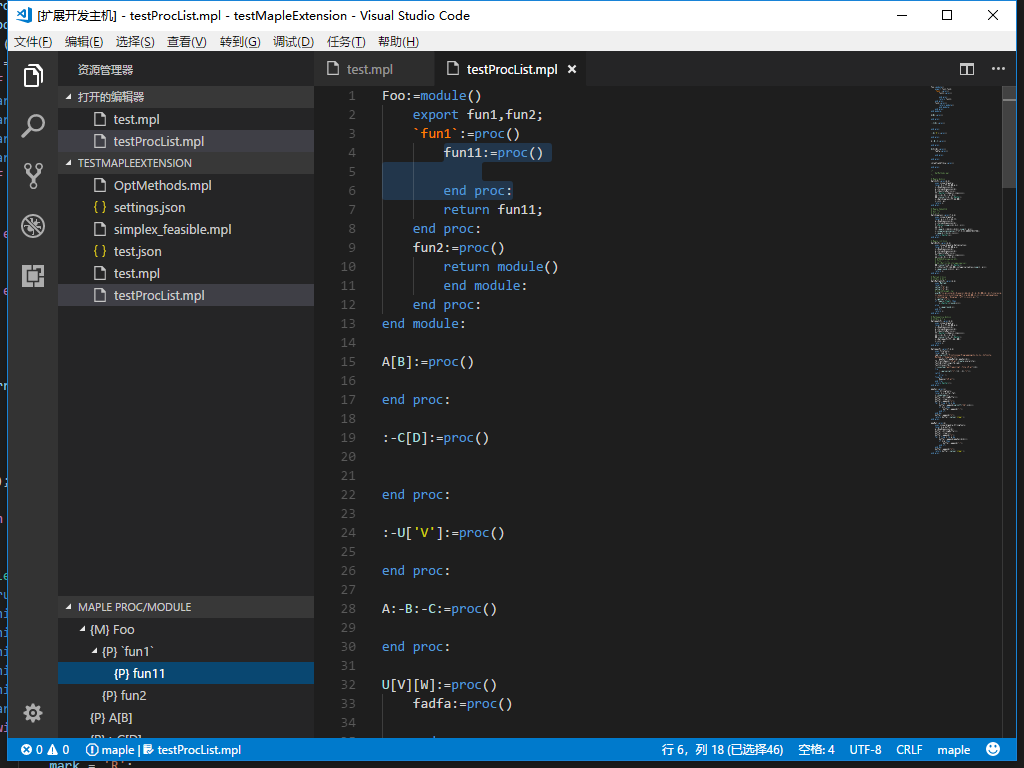
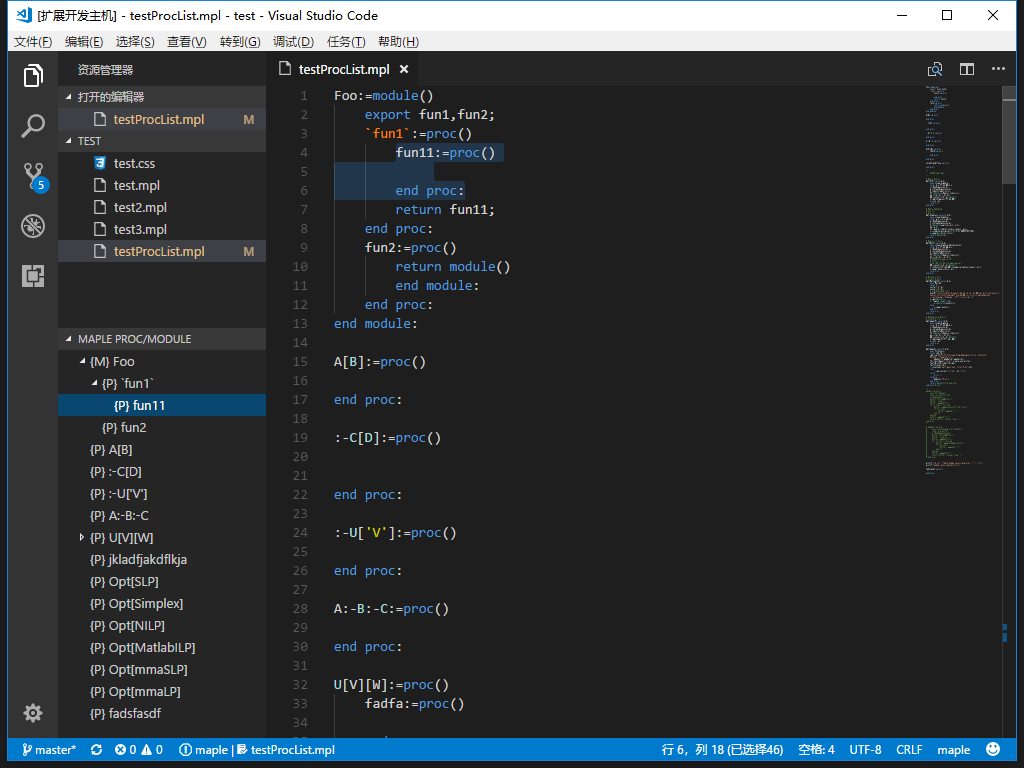
v1.2.4

diff --git a/runner/MapleParser.js b/runner/MapleParser.js
@@ -1,7 +1,7 @@
 'use strict';
 
 function findTokens(str) {
-    var b, r = /(\(\*(.|\s)*?\*\))|(#.*?$)|((:-)*(\w+|(`.*?`)|('.*?'))(:-(\w+|(`.*?`)|('.*?')))*(\[\s*(\w+|(`.*?`)|('.*?'))\s*\])*\s*:=\s*\b(proc|module)\b)|(\bend\s+(proc|module)\b\s*[:;]*)|(\b(proc|module)\b)/gm;
+    var b, r = /("(\\*.|\s)*?")|(\(\*(.|\s)*?\*\))|(#.*?$)|((:-)*(\w+|(`.*?`)|('.*?'))(:-(\w+|(`.*?`)|('.*?')))*(\[\s*(\w+|(`.*?`)|('.*?'))\s*\])*\s*:=\s*\b(proc|module)\b)|(\bend\s+\b(proc|module)\b\s*[:;]*)|(\b(proc|module)\b)/gm;
     var arr = new Array();
     var k = 0;
     var procs = 0,
@@ -13,9 +13,9 @@ function findTokens(str) {
         var start = b.index;
         var end = start + sToken.length;
         var type, name;
-        if (/(\(\*.*?\*\))|(#.*?$)/gm.test(sToken)) {
+        if (/("(\\*.|\s)*?")|(\(\*(.|\s)*?\*\))|(#.*?$)/gm.test(sToken)) {
             continue;
-        } else if (/end\s+((proc)|(module))\s*[:;]/g.test(sToken)) {
+        } else if (/(\bend\s+\b(proc|module)\b\s*[:;]*)/g.test(sToken)) {
             name = undefined;
             type = sToken.replace(/\s+|[:;]/g, '');
         } else if (!/:=/g.test(sToken)) {

diff --git a/CHANGELOG.md b/CHANGELOG.md
@@ -1,4 +1,8 @@
 # Change Log
+## 1.2.4
++ Eliminate the impact string for `Maple Proc/Module` viewer.
++ Fix the bug of `Maple Proc/Module` viewer.
+
 ## 1.2.3
 + Eliminate the impact of block comments `(* ... *)` for `Maple Proc/Module` viewer.
 
